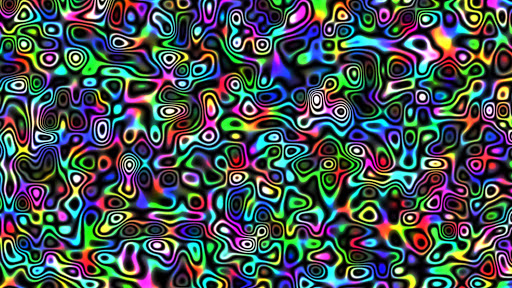
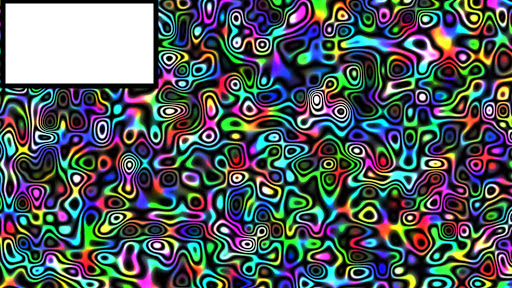
hh

Changed region(s): [[0.0, 0.0, 0.3125, 0.3125]]

diff --git a/index.html b/index.html
@@ -4,7 +4,27 @@
     <title>mama waarom zijn hebe zijn ogen zo groot?</title>
 </head>
 <body>
-<body style = "background-color: gold;">
+<body>
+    <style>
+        body{
+            background-image: url(9-95112_psychedelic-wallpaper-trippy-wallpaper-4k.jpg);
+            background-size: auto;
+            background-attachment: fixed;
+        }
+        .content{
+            background: white;
+            width: 75%;
+            padding: 200px;
+            margin: 100px auto;
+            font-family: sans-serif;
+        }
+        h1{
+            color: white;
+        }
+        h3{
+            color: white;
+        }
+    </style>
     
     <h1>  Hebe leip/skaf randomizer</h1>
     <h3> refresh voor een nieuwe foto</h3>
